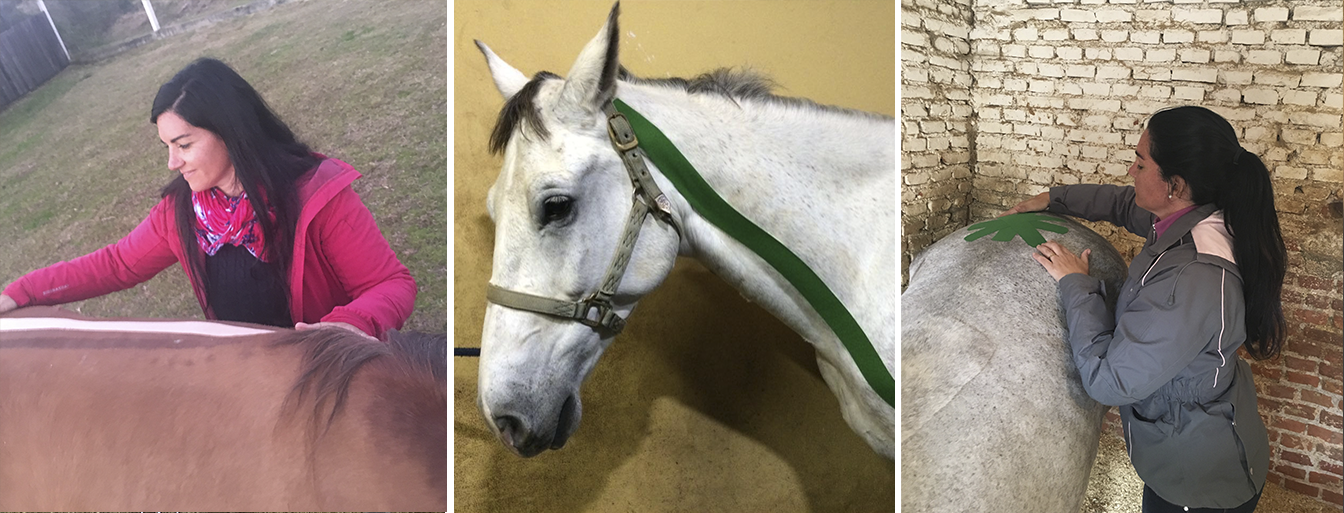
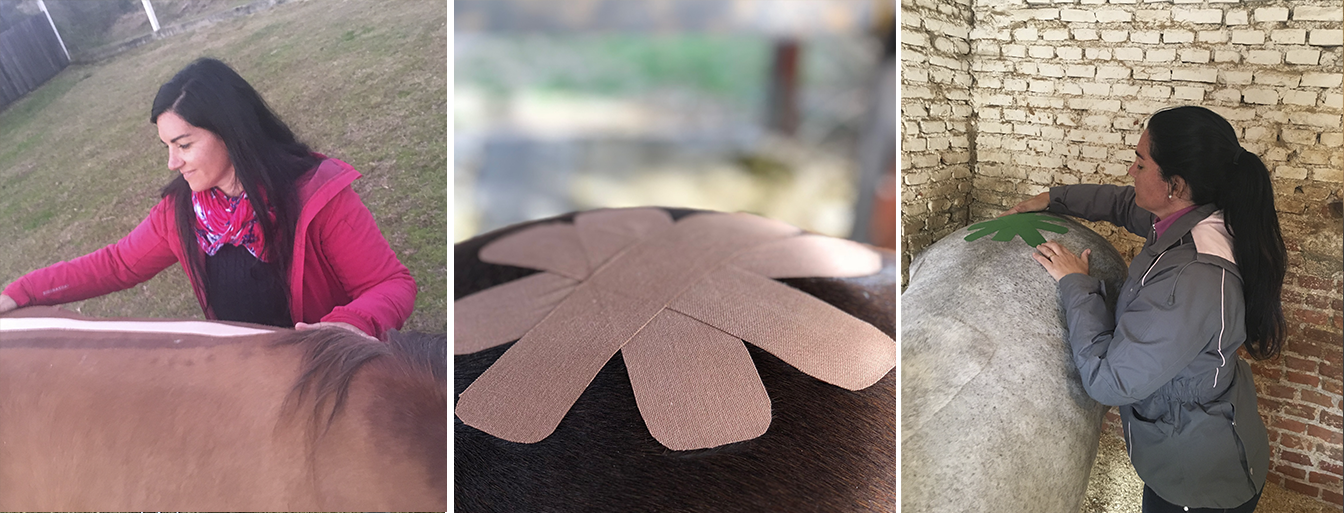
agrego fototerapia

diff --git a/HTML/terapias.html b/HTML/terapias.html
@@ -59,6 +59,11 @@
             <h5 class="titulo_section">Magnetoterapia</h5>
             <p class="text_section">Utilizada para la relajación muscular, la disminución del edema, dolor e inflamación, consolidación de fracturas y en casos de lesiones tendinosas, ligamnentosas y esfuerzos musculares.Facilis tempore quas eum, illo molestias beatae!</p>            
           </div>
+          <div class="carousel-item" data-bs-interval="10000">
+            <img src="../JPG/Fototerapia.png" class="d-block w-100" alt="3 fotos haciendo Fototerapia">          
+            <h5 class="titulo_section">Fototerapia</h5>
+            <p class="text_section">Utilizada para la relajación muscular, la disminución del edema, dolor e inflamación, consolidación de fracturas y en casos de lesiones tendinosas, ligamnentosas y esfuerzos musculares.Facilis tempore quas eum, illo molestias beatae!</p>            
+          </div>
           <div class="carousel-item" data-bs-interval="2000">
             <img src="../JPG/Electro.png" class="d-block w-100" alt="...">            
             <h5 class="titulo_section">Electroterapia</h5>
